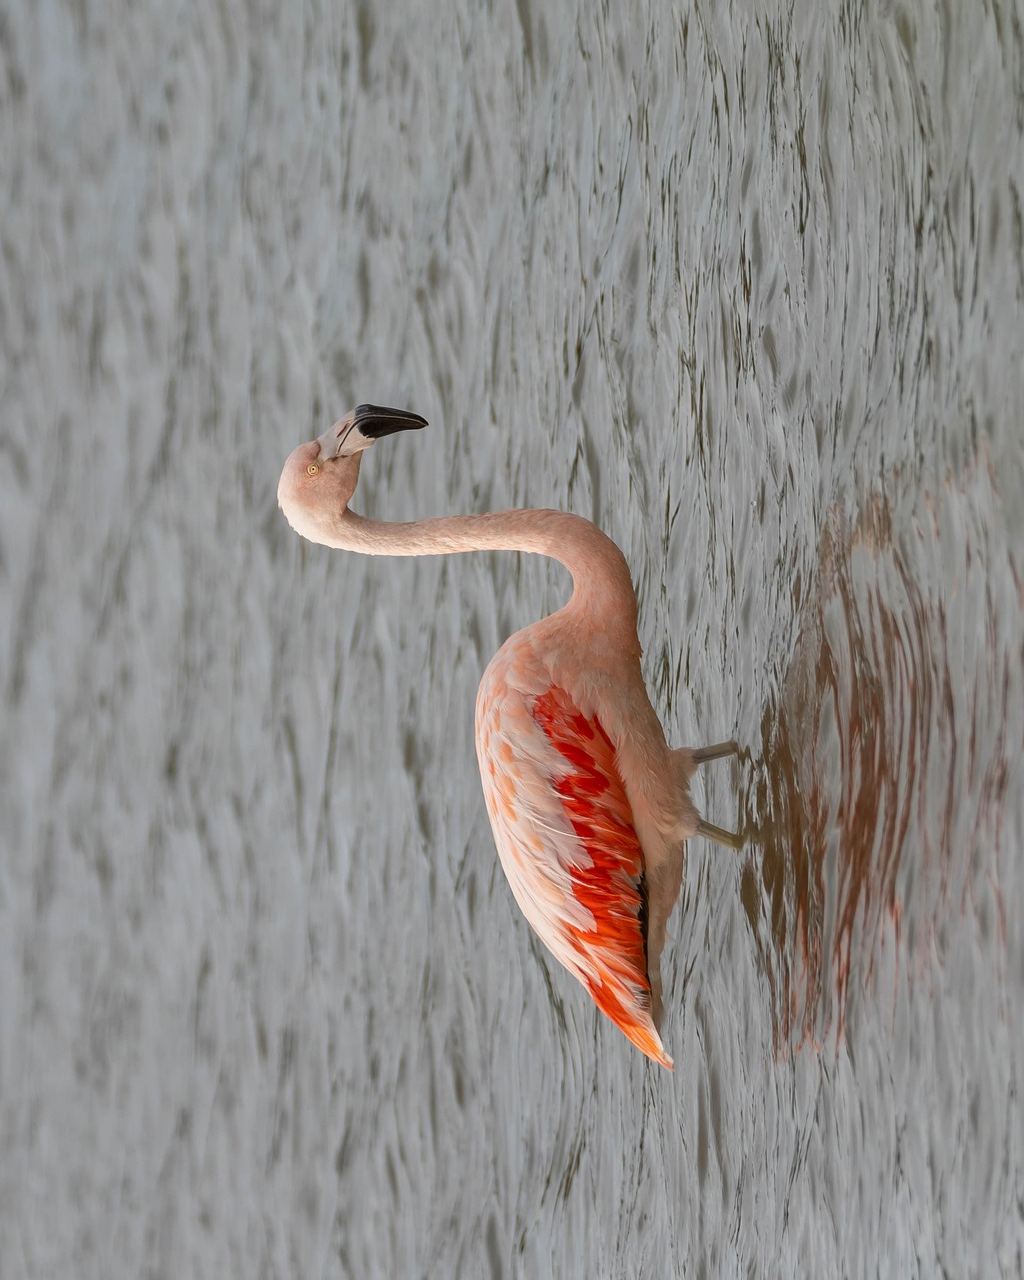
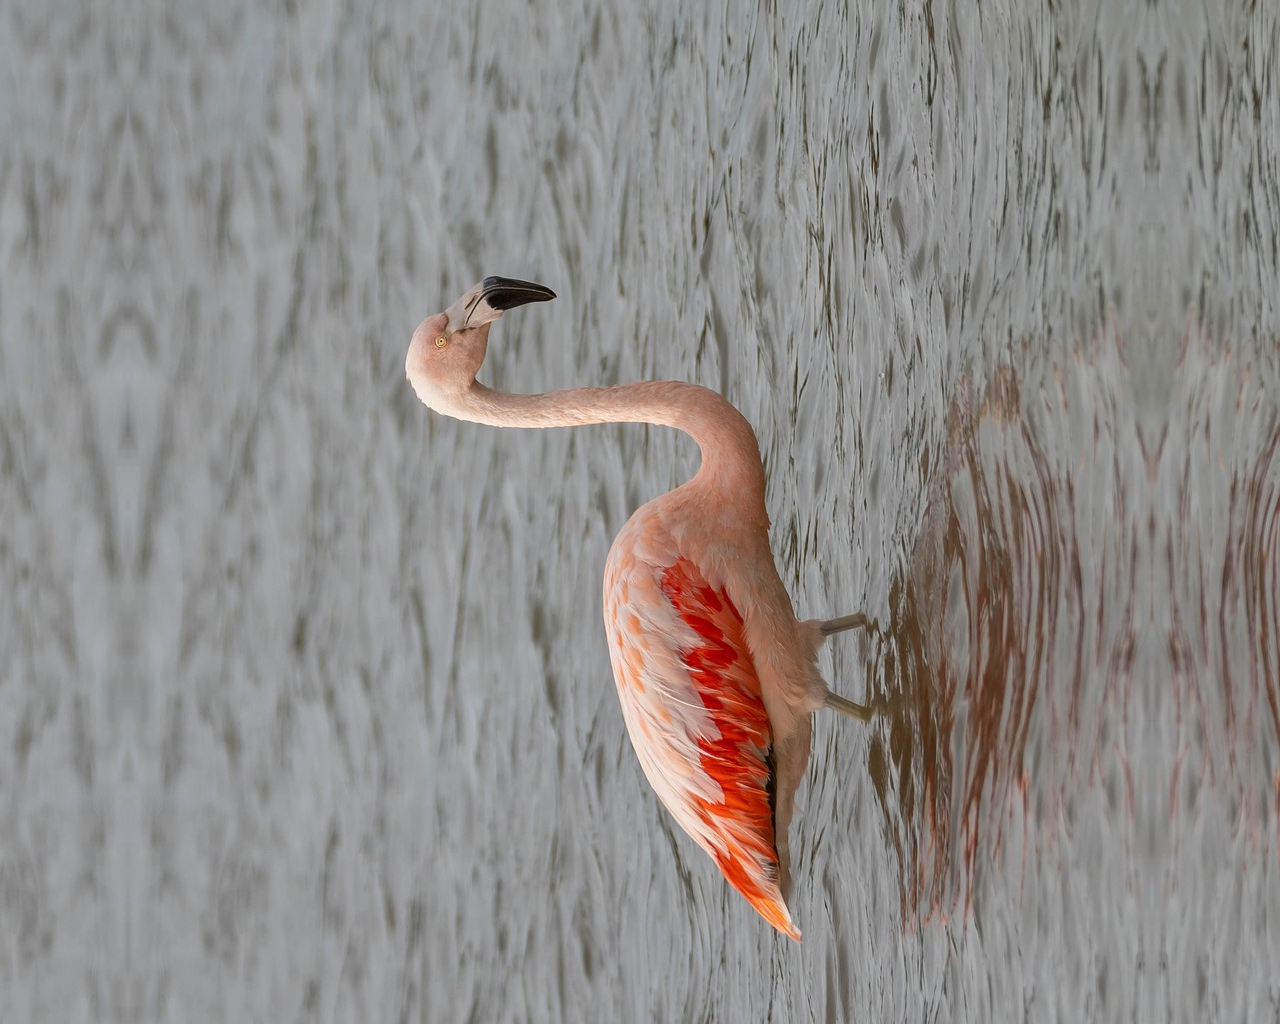
Update

diff --git a/main.py b/main.py
@@ -18,20 +18,14 @@ def average_filter(image, kernel_size):
     return cv2.blur(image, (kernel_size, kernel_size))
 
 # -------- Task 3: Rotate Image -------- #
+
 def rotate_image(image, angle):
     (h, w) = image.shape[:2]
-    M = cv2.getRotationMatrix2D((w/2, h/2), angle, 1.0)
-    cos = np.abs(M[0, 0])
-    sin = np.abs(M[0, 1])
-
-    new_w = int((h * sin) + (w * cos))
-    new_h = int((h * cos) + (w * sin))
-
-    M[0, 2] += (new_w / 2) - (w / 2)
-    M[1, 2] += (new_h / 2) - (h / 2)
-
-    rotated = cv2.warpAffine(image, M, (new_w, new_h), borderMode=cv2.BORDER_REFLECT)
+    center = (w // 2, h // 2)
+    M = cv2.getRotationMatrix2D(center, angle, 1.0)
+    rotated = cv2.warpAffine(image, M, (w, h), borderMode=cv2.BORDER_REFLECT)
     return rotated
+
 
 # -------- Task 4: Block Averaging to Reduce Resolution -------- #
 def block_average(image, block_size):
